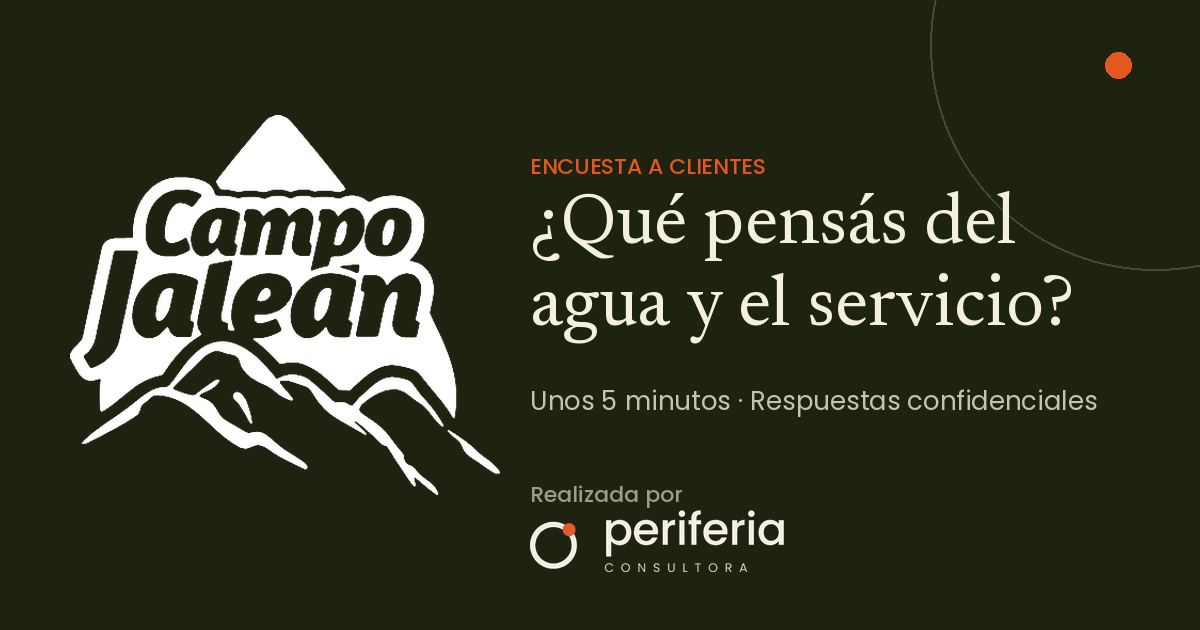
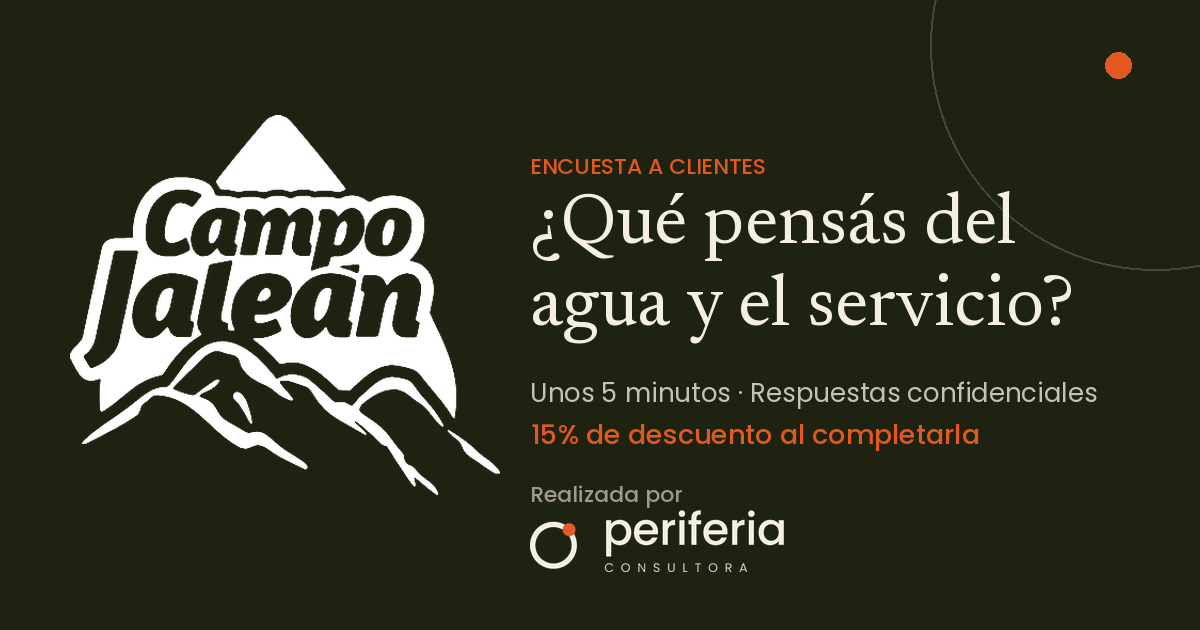
Encuesta: descuento 15% (tope $2.000), opciones de deporte, origen del agua
- p1: ¿Dónde recibís el agua Campo Jalean?
- Atributos (p20a/p20b): Ideal para hidratarse al hacer deporte
- p11: Para llevar al hacer deporte o actividad física
- Sale p18 (primero que se viene a la cabeza); entra p18o (origen del agua)
- Descuento en portada, cierre, descripción del link y tarjeta og.png

Claude-Session: https://claude.ai/code/session_015uVaQTMzYuDcR99gSMWtjo

Changed region(s): [[0.4317, 0.6032, 0.925, 0.7238]]

diff --git a/revisiones/index.html b/revisiones/index.html
@@ -5,13 +5,13 @@
 <meta name="robots" content="noindex, nofollow">
 <meta name="viewport" content="width=device-width, initial-scale=1.0, maximum-scale=1.0">
 <title>Encuesta a clientes · Campo Jalean</title>
-<meta name="description" content="¿Qué pensás del agua y el servicio? Unos 5 minutos. Respuestas confidenciales. Realizada por Periferia Consultora.">
+<meta name="description" content="¿Qué pensás del agua y el servicio? Unos 5 minutos. 15% de descuento al completarla (tope $2.000). Respuestas confidenciales. Realizada por Periferia Consultora.">
 <meta property="og:type" content="website">
 <meta property="og:site_name" content="Periferia Consultora">
 <meta property="og:title" content="Encuesta a clientes · Campo Jalean">
-<meta property="og:description" content="¿Qué pensás del agua y el servicio? Unos 5 minutos. Respuestas confidenciales.">
+<meta property="og:description" content="¿Qué pensás del agua y el servicio? Unos 5 minutos. 15% de descuento al completarla (tope $2.000). Respuestas confidenciales.">
 <meta property="og:url" content="https://encuesta.periferia.ar/revisiones/">
-<meta property="og:image" content="https://encuesta.periferia.ar/og.png">
+<meta property="og:image" content="https://encuesta.periferia.ar/og.png?v=3">
 <meta property="og:image:width" content="1200">
 <meta property="og:image:height" content="630">
 <meta property="og:locale" content="es_AR">
@@ -364,7 +364,7 @@ html,body{font-size:17px}
       <div class="welcome-meta-item"><div class="val">Confidencial</div><div class="lbl">respuestas</div></div>
       <div class="welcome-meta-item"><div class="val">Clientes</div><div class="lbl">Campo Jalean</div></div>
     </div>
-    <div class="welcome-sorteo">Respondela si sos <b>quien compra el agua</b> en tu casa o empresa. Si no, pasale el link a esa persona.<br><br>🔒 Tu link es personal y tus respuestas, confidenciales: Campo Jalean solo ve resultados generales.</div>
+    <div class="welcome-sorteo">🎁 Al completarla tenés un <b>15% de descuento</b> en tu próxima compra de Campo Jalean (tope de $2.000).<br><br>Respondela si sos <b>quien compra el agua</b> en tu casa o empresa. Si no, pasale el link a esa persona.<br><br>🔒 Tu link es personal y tus respuestas, confidenciales: Campo Jalean solo ve resultados generales.</div>
     <button class="btn-start" onclick="startSurvey()">Empezar encuesta</button>
     <p class="privacy-note">Hecha por Periferia Consultora · Participar es voluntario</p>
   </div>
@@ -379,6 +379,9 @@ html,body{font-size:17px}
     <div class="check-anim">✓</div>
     <div class="thanks-title">¡Gracias por responder!</div>
     <p class="thanks-sub">Tu respuesta quedó registrada. Nos ayuda a entender qué valoran los clientes y qué se puede mejorar del servicio.</p>
+    <div class="result-promise">
+      <p><strong>🎁 Ya tenés tu 15% de descuento</strong> en tu próxima compra de Campo Jalean (tope de $2.000).</p>
+    </div>
     <div class="result-promise">
       <p><strong>Tus respuestas son confidenciales.</strong> Campo Jalean recibe solo resultados generales, nunca respuestas individuales.</p>
     </div>
@@ -497,7 +500,7 @@ const RECARGA    = r => ['si','tal_vez'].includes(r.p25);
 const SERVICIO = [O('1','Malo'),O('2','Regular'),O('3','Bueno'),O('4','Muy bueno')];   // escala cargada hacia arriba: discrimina mejor entre clientes conformes
 const ATRIBUTOS = [
   O('sabor','El sabor'), O('vertiente','Que sea agua de vertiente'), O('pureza','La pureza'), O('salud','Que es saludable'),
-  O('reparto','El servicio de reparto'), O('trato','El trato'), O('precio','El precio'), O('riojana','Que sea riojana') ];
+  O('reparto','El servicio de reparto'), O('trato','El trato'), O('precio','El precio'), O('riojana','Que sea riojana'), O('deporte','Ideal para hidratarse al hacer deporte') ];
 // Lista de imagen (p19): 8 dimensiones, una palabra positiva y una negativa cada una. val: + / − / d (descriptiva, no cuenta)
 const PALABRAS_DEF = [
   ['natural','Natural','+'], ['procesada','Procesada','-'],
@@ -523,7 +526,7 @@ const MEJORAS = [
 // ============================================================
 const SECTIONS = [
 { id:'s0', tag:'0', title:'Para empezar', sub:'Una primera pregunta para mostrarte las preguntas que te corresponden.', qs:[
-  { id:'p1', type:'cards', label:'¿Para dónde recibís el agua Campo Jalean?', opts:[
+  { id:'p1', type:'cards', label:'¿Dónde recibís el agua Campo Jalean?', opts:[
     O('hogar','Para mi casa'), O('empresa','Para una empresa, comercio u oficina'), O('ambos','Para los dos','Respondé pensando en tu casa') ] },
 ]},
 
@@ -549,7 +552,7 @@ const SECTIONS = [
     O('cortes','Cortes de agua o baja presión'), O('medico','Recomendación médica'), O('costumbre','Por costumbre'), O('otro','Otro motivo') ] },
   { id:'p11', type:'multichips', label:'¿Para qué consumen el agua Campo Jalean?', note:'Podés marcar varias.', other:'otro', opts:[
     O('tomar','Para tomar'), O('cocinar','Para cocinar'), O('mate','Para el mate o infusiones'), O('bebes','Para bebés (mamaderas, comidas)'),
-    O('mascotas','Para las mascotas'), O('otro','Otro uso') ] },
+    O('mascotas','Para las mascotas'), O('deporte','Para llevar al hacer deporte o actividad física'), O('otro','Otro uso') ] },
   { id:'p9', type:'chips', label:'¿Cuántos bidones reciben por mes, más o menos?', note:'Contá todos, de 20 y de 12 litros.', opts:[O('1','1'),O('2','2'),O('3_4','3 o 4'),O('5_8','5 a 8'),O('9','Más de 8')] },
   { id:'p10', type:'chips', label:'¿Qué bidones usan?', opts:[O('20','De 20 litros'),O('12','De 12 litros'),O('ambos','De los dos')] },
 ]},
@@ -561,7 +564,8 @@ const SECTIONS = [
   { id:'p17', type:'chips', label:'¿Usás o usaste otra marca de agua en <b>bidón retornable</b> en tu casa?', note:'Bidones de 12 o 20 litros que se devuelven. No cuentan las botellas que se compran sueltas.', opts:[O('no','No'),O('antes','Sí, antes de Campo Jalean'),O('vez','Sí, la uso a la vez')] },
   { id:'p17a', type:'text', label:'¿Qué marca?', ph:'Si no te acordás, escribí «no me acuerdo»', showIf:OTRA_MARCA },
   { id:'p17b', type:'text', req:false, label:'¿Por qué elegís Campo Jalean frente a esa otra marca? <span style="color:var(--tinta-60);font-size:12px">(opcional)</span>', ph:'En pocas palabras', showIf:OTRA_MARCA },
-  { id:'p18', type:'text', label:'Cuando pensás en Campo Jalean, ¿qué es lo <b>primero</b> que se te viene a la cabeza?', ph:'Una palabra o una frase' },
+  { id:'p18o', type:'cards', pvNote:'Nuevo (29/10): reemplaza «lo primero que se te viene a la cabeza».', label:'¿Conocés el origen del agua Campo Jalean?', opts:[
+    O('si','Conozco el origen del agua'), O('algo','Tengo una idea, pero no lo sé bien'), O('no','No conozco en absoluto de dónde viene') ] },
 ]},
 
 { id:'sE', tag:'E1', path:'hog', title:'Cómo ves a Campo Jalean', sub:'No hay respuestas correctas: nos interesa tu opinión.', qs:[

diff --git a/index.html b/index.html
@@ -5,13 +5,13 @@
 <meta name="robots" content="noindex, nofollow">
 <meta name="viewport" content="width=device-width, initial-scale=1.0, maximum-scale=1.0">
 <title>Encuesta a clientes · Campo Jalean</title>
-<meta name="description" content="¿Qué pensás del agua y el servicio? Unos 5 minutos. Respuestas confidenciales. Realizada por Periferia Consultora.">
+<meta name="description" content="¿Qué pensás del agua y el servicio? Unos 5 minutos. 15% de descuento al completarla (tope $2.000). Respuestas confidenciales. Realizada por Periferia Consultora.">
 <meta property="og:type" content="website">
 <meta property="og:site_name" content="Periferia Consultora">
 <meta property="og:title" content="Encuesta a clientes · Campo Jalean">
-<meta property="og:description" content="¿Qué pensás del agua y el servicio? Unos 5 minutos. Respuestas confidenciales.">
+<meta property="og:description" content="¿Qué pensás del agua y el servicio? Unos 5 minutos. 15% de descuento al completarla (tope $2.000). Respuestas confidenciales.">
 <meta property="og:url" content="https://encuesta.periferia.ar/">
-<meta property="og:image" content="https://encuesta.periferia.ar/og.png">
+<meta property="og:image" content="https://encuesta.periferia.ar/og.png?v=3">
 <meta property="og:image:width" content="1200">
 <meta property="og:image:height" content="630">
 <meta property="og:locale" content="es_AR">
@@ -367,7 +367,7 @@ html,body{font-size:17px}
       <div class="welcome-meta-item"><div class="val">Confidencial</div><div class="lbl">respuestas</div></div>
       <div class="welcome-meta-item"><div class="val">Clientes</div><div class="lbl">Campo Jalean</div></div>
     </div>
-    <div class="welcome-sorteo">Respondela si sos <b>quien compra el agua</b> en tu casa o empresa. Si no, pasale el link a esa persona.<br><br>🔒 Tu link es personal y tus respuestas, confidenciales: Campo Jalean solo ve resultados generales.</div>
+    <div class="welcome-sorteo">🎁 Al completarla tenés un <b>15% de descuento</b> en tu próxima compra de Campo Jalean (tope de $2.000).<br><br>Respondela si sos <b>quien compra el agua</b> en tu casa o empresa. Si no, pasale el link a esa persona.<br><br>🔒 Tu link es personal y tus respuestas, confidenciales: Campo Jalean solo ve resultados generales.</div>
     <button class="btn-start" onclick="startSurvey()">Empezar encuesta</button>
     <p class="privacy-note">Hecha por Periferia Consultora · Participar es voluntario</p>
   </div>
@@ -382,6 +382,9 @@ html,body{font-size:17px}
     <div class="check-anim">✓</div>
     <div class="thanks-title">¡Gracias por responder!</div>
     <p class="thanks-sub">Tu respuesta quedó registrada. Nos ayuda a entender qué valoran los clientes y qué se puede mejorar del servicio.</p>
+    <div class="result-promise">
+      <p><strong>🎁 Ya tenés tu 15% de descuento</strong> en tu próxima compra de Campo Jalean (tope de $2.000).</p>
+    </div>
     <div class="result-promise">
       <p><strong>Tus respuestas son confidenciales.</strong> Campo Jalean recibe solo resultados generales, nunca respuestas individuales.</p>
     </div>
@@ -502,7 +505,7 @@ const RECARGA    = r => ['si','tal_vez'].includes(r.p25);
 const SERVICIO = [O('1','Malo'),O('2','Regular'),O('3','Bueno'),O('4','Muy bueno')];   // escala cargada hacia arriba: discrimina mejor entre clientes conformes
 const ATRIBUTOS = [
   O('sabor','El sabor'), O('vertiente','Que sea agua de vertiente'), O('pureza','La pureza'), O('salud','Que es saludable'),
-  O('reparto','El servicio de reparto'), O('trato','El trato'), O('precio','El precio'), O('riojana','Que sea riojana') ];
+  O('reparto','El servicio de reparto'), O('trato','El trato'), O('precio','El precio'), O('riojana','Que sea riojana'), O('deporte','Ideal para hidratarse al hacer deporte') ];
 // Lista de imagen (p19): 8 dimensiones, una palabra positiva y una negativa cada una. val: + / − / d (descriptiva, no cuenta)
 const PALABRAS_DEF = [
   ['natural','Natural','+'], ['procesada','Procesada','-'],
@@ -528,7 +531,7 @@ const MEJORAS = [
 // ============================================================
 const SECTIONS = [
 { id:'s0', tag:'0', title:'Para empezar', sub:'Una primera pregunta para mostrarte las preguntas que te corresponden.', qs:[
-  { id:'p1', type:'cards', label:'¿Para dónde recibís el agua Campo Jalean?', opts:[
+  { id:'p1', type:'cards', label:'¿Dónde recibís el agua Campo Jalean?', opts:[
     O('hogar','Para mi casa'), O('empresa','Para una empresa, comercio u oficina'), O('ambos','Para los dos','Respondé pensando en tu casa') ] },
 ]},
 
@@ -554,7 +557,7 @@ const SECTIONS = [
     O('cortes','Cortes de agua o baja presión'), O('medico','Recomendación médica'), O('costumbre','Por costumbre'), O('otro','Otro motivo') ] },
   { id:'p11', type:'multichips', label:'¿Para qué consumen el agua Campo Jalean?', note:'Podés marcar varias.', other:'otro', opts:[
     O('tomar','Para tomar'), O('cocinar','Para cocinar'), O('mate','Para el mate o infusiones'), O('bebes','Para bebés (mamaderas, comidas)'),
-    O('mascotas','Para las mascotas'), O('otro','Otro uso') ] },
+    O('mascotas','Para las mascotas'), O('deporte','Para llevar al hacer deporte o actividad física'), O('otro','Otro uso') ] },
   { id:'p9', type:'chips', label:'¿Cuántos bidones reciben por mes, más o menos?', note:'Contá todos, de 20 y de 12 litros.', opts:[O('1','1'),O('2','2'),O('3_4','3 o 4'),O('5_8','5 a 8'),O('9','Más de 8')] },
   { id:'p10', type:'chips', label:'¿Qué bidones usan?', opts:[O('20','De 20 litros'),O('12','De 12 litros'),O('ambos','De los dos')] },
 ]},
@@ -566,7 +569,8 @@ const SECTIONS = [
   { id:'p17', type:'chips', label:'¿Usás o usaste otra marca de agua en <b>bidón retornable</b> en tu casa?', note:'Bidones de 12 o 20 litros que se devuelven. No cuentan las botellas que se compran sueltas.', opts:[O('no','No'),O('antes','Sí, antes de Campo Jalean'),O('vez','Sí, la uso a la vez')] },
   { id:'p17a', type:'text', label:'¿Qué marca?', ph:'Si no te acordás, escribí «no me acuerdo»', showIf:OTRA_MARCA },
   { id:'p17b', type:'text', req:false, label:'¿Por qué elegís Campo Jalean frente a esa otra marca? <span style="color:var(--tinta-60);font-size:12px">(opcional)</span>', ph:'En pocas palabras', showIf:OTRA_MARCA },
-  { id:'p18', type:'text', label:'Cuando pensás en Campo Jalean, ¿qué es lo <b>primero</b> que se te viene a la cabeza?', ph:'Una palabra o una frase' },
+  { id:'p18o', type:'cards', pvNote:'Nuevo (29/10): reemplaza «lo primero que se te viene a la cabeza».', label:'¿Conocés el origen del agua Campo Jalean?', opts:[
+    O('si','Conozco el origen del agua'), O('algo','Tengo una idea, pero no lo sé bien'), O('no','No conozco en absoluto de dónde viene') ] },
 ]},
 
 { id:'sE', tag:'E1', path:'hog', title:'Cómo ves a Campo Jalean', sub:'No hay respuestas correctas: nos interesa tu opinión.', qs:[
